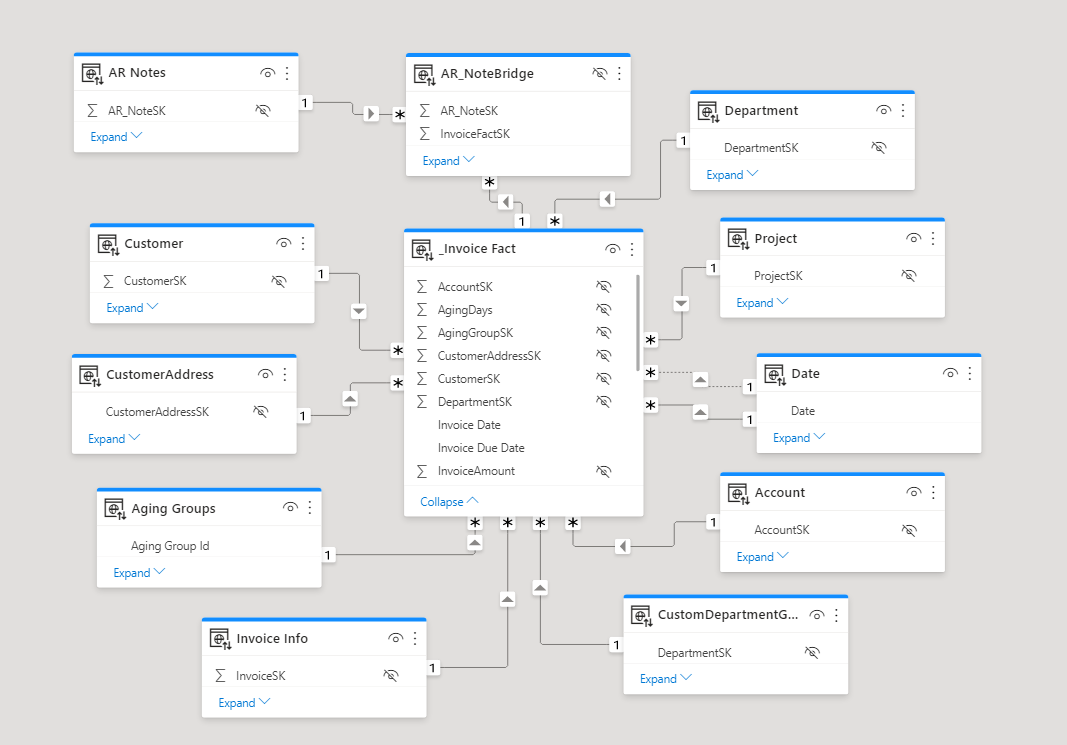
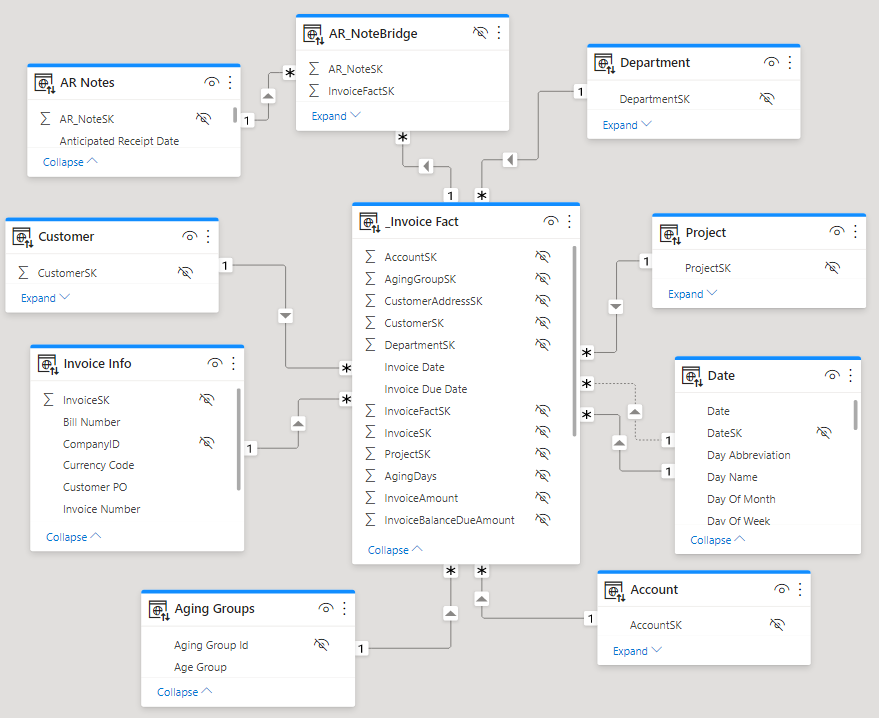
AR Star Post

diff --git a/content/post/2021-05-24-accounts-receivable-star-schema/index.md b/content/post/2021-05-24-accounts-receivable-star-schema/index.md
@@ -10,7 +10,19 @@ tags:
   - Power BI
   - SSAS
 ---
-When scouring the internet to create my first dimensional model table in the the star schema pattern, I did not find one useful Accounts Receivable or Payable design so, as far as I know, this is the first published post in this area.  
 
+### Work-In-Progress
+
+When scouring the internet to start modeling in the the star schema pattern, I did not find one useful Accounts Receivable (AR) or Payable (AP) design which were the areas I was focused on. As far as I know, this is the first published post on modeling AR.
+
+1. Invoice Fact
+2. Invoice Payment Fact
+3. Multiple Dates in a Fact Table
+4. Aging Groups 
+5. Many-to-Many Relationship between Fact and Dim Tables
+6. Junk Dimensions
+
+
+## Invoice Fact
 
 ![Invoice Fact Star Schema](images/InvoiceFact_Star.PNG)

diff --git a/themes/hugo-lithium/archetypes/default.md b/themes/hugo-lithium/archetypes/default.md
@@ -1,4 +1,4 @@
 ---
-title: ''
-date: ''
+title: 'Testing archetypes'
+date: '2021-05-29'
 ---
